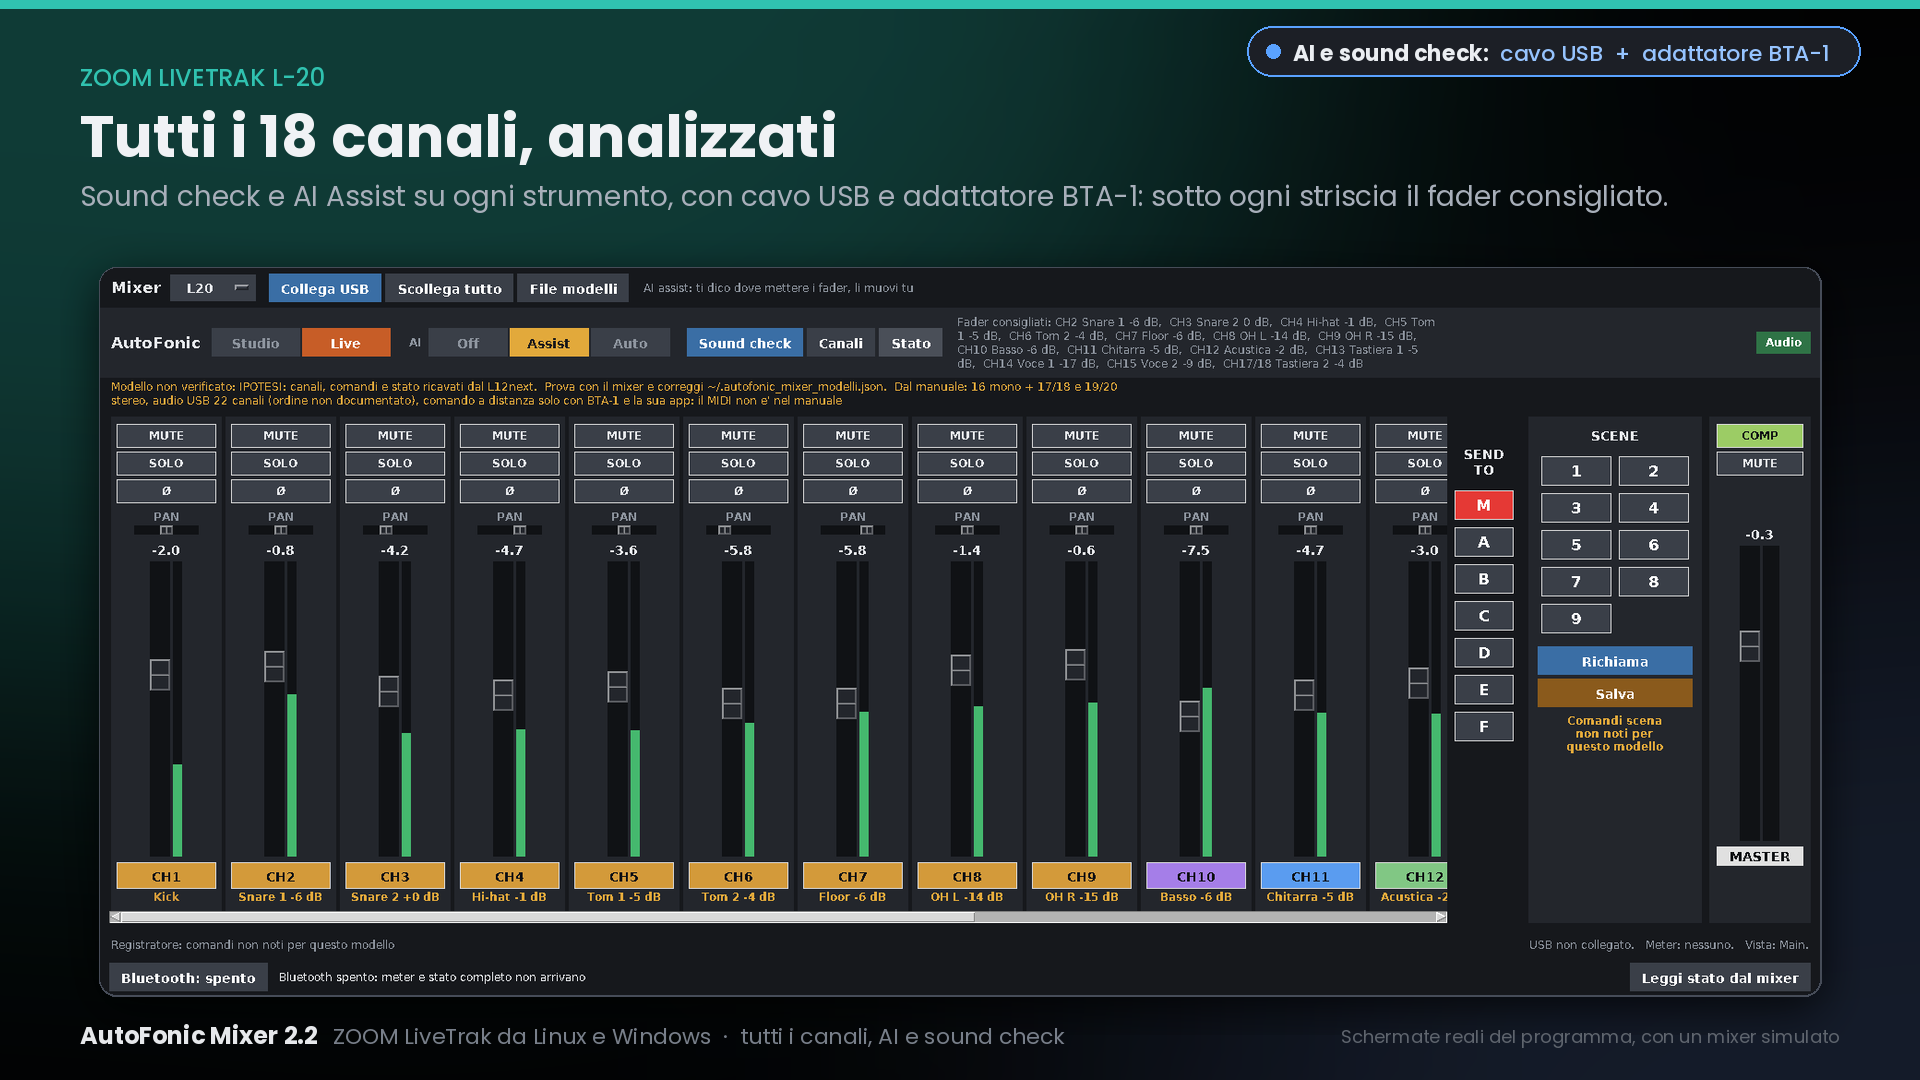
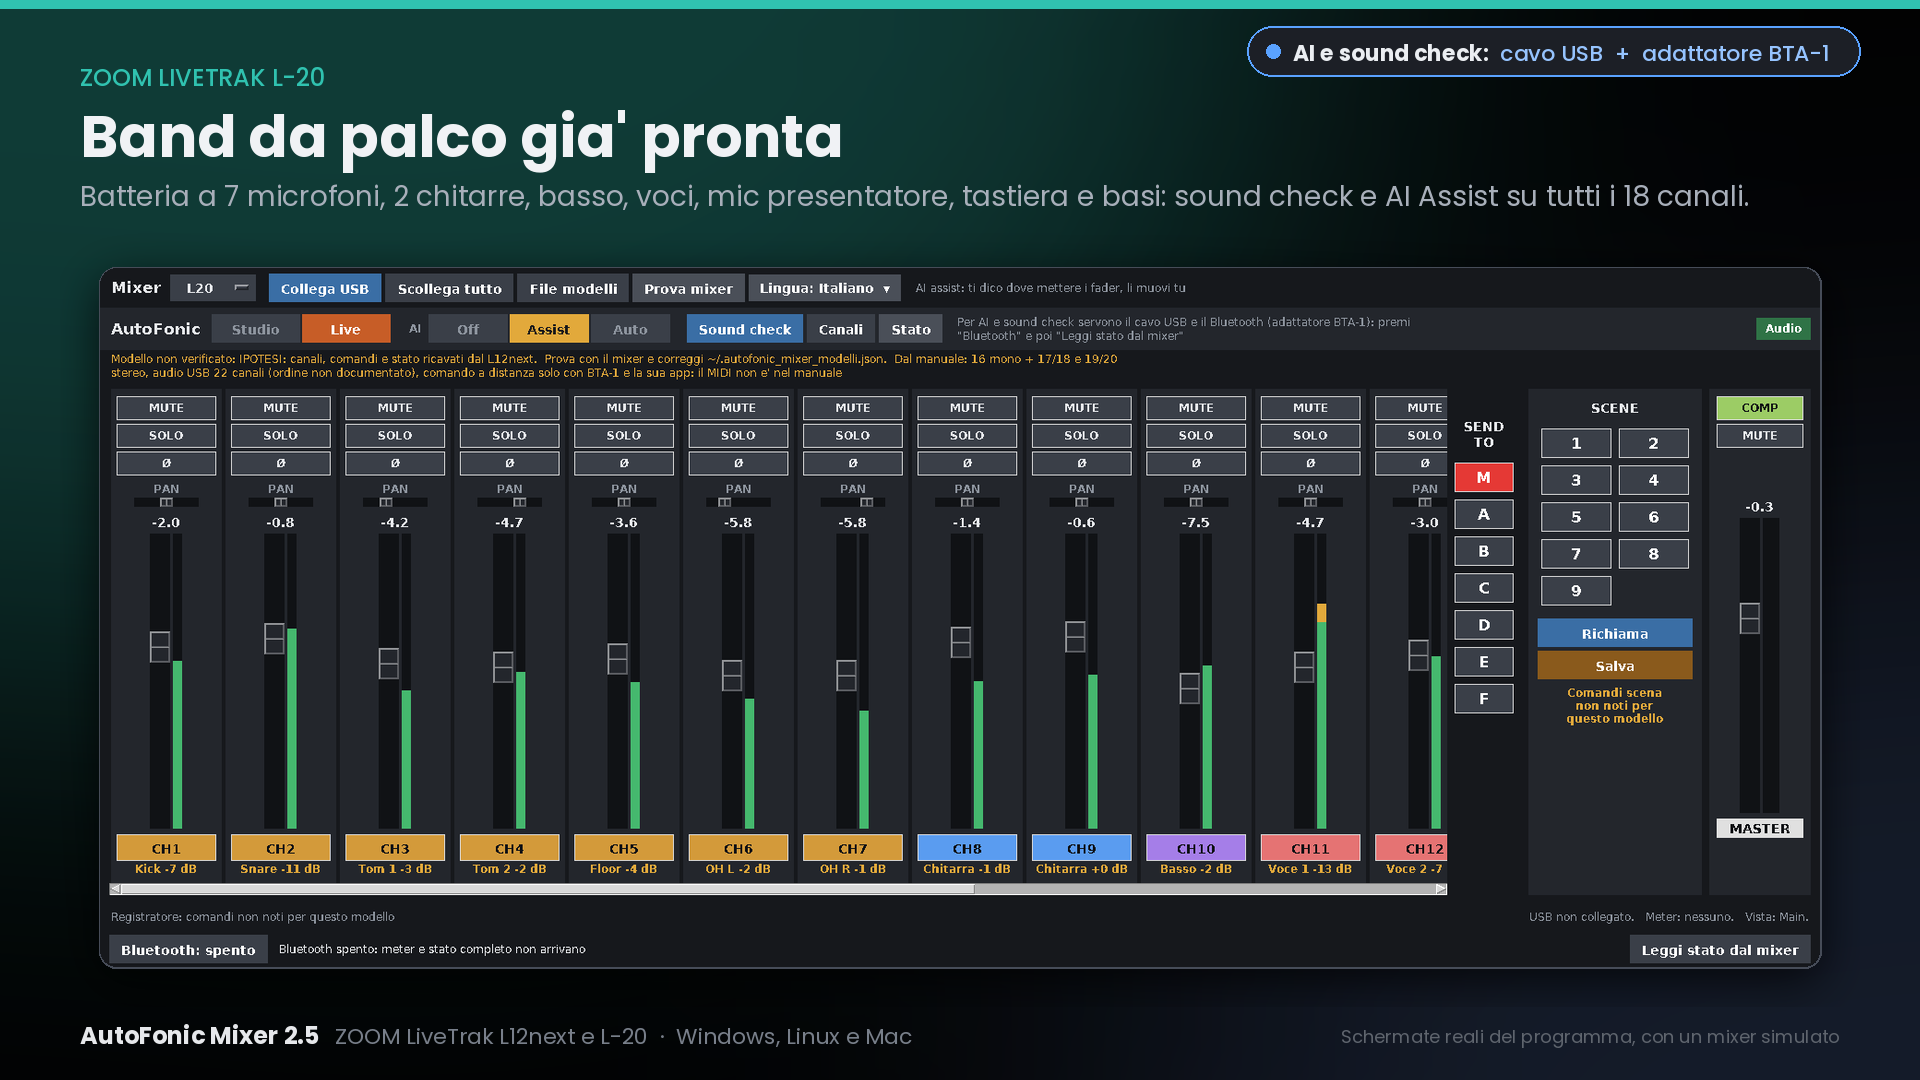
Immagini e pagina aggiornate alla 2.5
Claude-Session: https://claude.ai/code/session_01U8W5CNsYKxYqECJ5q9Evsb

diff --git a/README.md b/README.md
@@ -4,7 +4,7 @@
 
 ![AutoFonic Mixer](immagini/00_copertina.png)
 
-**Il tuo LiveTrak, con un fonico dentro.**  AutoFonic Mixer comanda il mixer da **Linux, Windows o Mac**, in **italiano o inglese**,, fa il sound check a
+**Il tuo LiveTrak, con un fonico dentro.**  AutoFonic Mixer comanda il mixer da **Linux, Windows o Mac**, in **italiano, inglese, francese, sloveno o croato**,, fa il sound check a
 tutto schermo e bilancia il mix mentre suoni, analizzando l'audio di **tutti i canali**.
 
 > **Per AI e sound check servono tutti e due: il cavo USB e l'adattatore Bluetooth ZOOM BTA-1.**
@@ -105,7 +105,7 @@ volume basso prima di usarlo dal vivo.  Licenza: vedi [LICENSE](LICENSE).
 
 **Your LiveTrak, with a sound engineer inside.**  AutoFonic Mixer controls the ZOOM LiveTrak **L12next** and
 **L-20** from **Linux, Windows or Mac**, runs a full-screen sound check and balances the mix while you play,
-analysing the audio of **every channel**.  The program is in **English and Italian** (button "Language").
+analysing the audio of **every channel**.  The program is in **English, Italian, French, Slovenian and Croatian** (menu "Language").
 
 > **AI and sound check need both the USB cable and the ZOOM BTA-1 Bluetooth adapter.**
 
